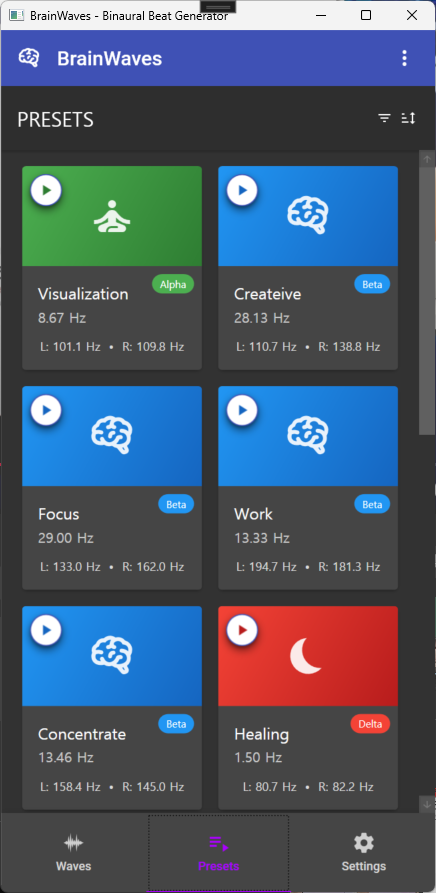
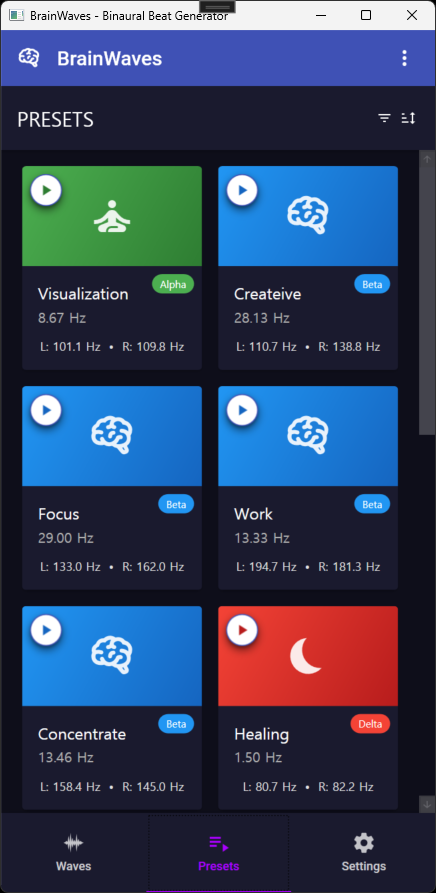
Update README.md

diff --git a/README.md b/README.md
@@ -1,96 +1,169 @@
-# BrainWaves - 바이노럴 비트 생성기
+# 🧠 BrainWaves - 모던 바이노럴 비트 생성기
 
-BrainWaves는 바이노럴 비트(Binaural Beats)를 생성하는 Windows 데스크톱 애플리케이션입니다. 좌우 귀에 약간 다른 주파수의 소리를 들려주어 뇌파를 특정 상태로 유도할 수 있습니다.
+<p align="center">
+  <img src="Images/program_waves.png" width="300" alt="BrainWaves 메인 화면"/>
+</p>
 
-## 주요 기능
+<p align="center">
+  <b>과학적으로 설계된 바이노럴 비트로 당신의 정신 상태를 변화시키세요</b>
+</p>
 
-### 🎵 바이노럴 비트 생성
-- 좌우 독립적인 주파수 설정 (0.01Hz 단위로 정밀 조절)
-- 실시간 WAV 오디오 생성 및 재생
-- 각 채널별 볼륨(게인) 조절
+<p align="center">
+  <a href="#주요-기능">주요 기능</a> •
+  <a href="#스크린샷">스크린샷</a> •
+  <a href="#설치-방법">설치 방법</a> •
+  <a href="#사용법">사용법</a> •
+  <a href="#프리셋">프리셋</a> •
+  <a href="#기술-스택">기술 스택</a>
+</p>
 
-### 🧠 뇌파 유형별 프리셋
-- **13개의 사전 설정된 프리셋**
-  - 수면 유도 (Delta파: 0.5-3Hz)
-  - 명상 및 이완 (Theta파: 3-8Hz, Alpha파: 8-12Hz)
-  - 집중력 향상 (Beta파: 12-38Hz)
-  - 인지 기능 향상 (Gamma파: 38-42Hz)
+---
 
-### 📊 주요 프리셋 목록
-| 프리셋 | 뇌파 유형 | 주파수 차이 | 용도 |
-|--------|-----------|-------------|------|
-| Deep Sleep | Delta | 1.63Hz | 깊은 수면 |
-| Sleep | Delta | 2Hz | 일반 수면 |
-| Meditation | Theta | 4.5Hz | 명상 |
-| Relax | Theta | 4.56Hz | 휴식 |
-| Creative | Beta | 28.13Hz | 창의성 |
-| Focus | Beta | 29Hz | 집중 |
-| Cognitive tasks | Gamma | 40Hz | 인지 작업 |
+## 🌟 개요
 
-## 시스템 요구사항
+BrainWaves는 다양한 정신 상태를 달성하는 데 도움을 주는 바이노럴 비트를 생성하는 모던한 Windows 데스크톱 애플리케이션입니다. 각 귀에 약간 다른 주파수를 재생하여 뇌파 패턴에 영향을 줄 수 있는 청각적 착각을 만들어냅니다.
 
-- Windows 10 이상
-- .NET 8.0 Runtime
-- 스테레오 헤드폰 또는 이어폰 (바이노럴 비트 효과를 위해 필수)
+## ✨ 주요 기능
 
-## 설치 방법
+### 🎵 **정밀한 주파수 제어**
+- 좌우 채널 독립적인 주파수 조절 (0.01Hz 정밀도)
+- 실시간 스테레오 WAV 오디오 생성
+- 각 채널별 개별 볼륨 조절
+- 아름답고 직관적인 다크 테마 UI
 
-### 옵션 1: 소스 코드에서 빌드
+### 🧘 **13가지 과학적으로 설계된 프리셋**
+- **수면 & 휴식**: 깊은 휴식을 위한 델타파와 세타파
+- **집중 & 생산성**: 향상된 집중력을 위한 베타파
+- **창의성 & 학습**: 창의적 사고를 위한 알파파
+- **최고 성능**: 인지 능력 향상을 위한 감마파
+
+### 🎨 **모던한 Material Design**
+- 네이비 배경(#0E0E1A)의 우아한 다크 테마
+- 쉬운 식별을 위한 파동 유형별 색상 구분
+- 부드러운 애니메이션과 트랜지션
+- 반응형 사용자 친화적 인터페이스
+
+## 📸 스크린샷
+
+<table>
+  <tr>
+    <td align="center">
+      <img src="Images/program_waves.png" width="250"/><br>
+      <b>웨이브 컨트롤</b><br>
+      <sub>수동으로 주파수 미세 조정</sub>
+    </td>
+    <td align="center">
+      <img src="Images/program_presets.png" width="250"/><br>
+      <b>프리셋 라이브러리</b><br>
+      <sub>최적화된 설정에 빠르게 접근</sub>
+    </td>
+    <td align="center">
+      <img src="Images/program_settings.png" width="250"/><br>
+      <b>설정</b><br>
+      <sub>앱 정보 및 구성</sub>
+    </td>
+  </tr>
+</table>
+
+## 🧠 프리셋
+
+| 프리셋 | 파동 유형 | 주파수 (Hz) | 목적 |
+|--------|-----------|----------------|---------|
+| 🌙 **깊은 수면** | 델타 | 1.63 | 가장 깊은 수면 단계 |
+| 😴 **수면** | 델타 | 2.00 | 일반적인 수면 유도 |
+| 🧘 **명상** | 세타 | 4.50 | 깊은 명상 |
+| 🌊 **휴식** | 세타 | 4.56 | 스트레스 해소 |
+| 👁 **시각화** | 알파 | 8.67 | 정신적 이미지화 |
+| 🎯 **집중** | 베타 | 29.00 | 강렬한 집중력 |
+| 🎨 **창의성** | 베타 | 28.13 | 창의적 사고 |
+| 💡 **인지** | 감마 | 40.00 | 최고의 정신 성능 |
+
+## 💻 시스템 요구사항
+
+- **OS**: Windows 10 이상
+- **프레임워크**: .NET 8.0 Runtime
+- **오디오**: 스테레오 헤드폰 또는 이어폰 (바이노럴 효과를 위해 필수)
+- **RAM**: 최소 4GB
+- **저장 공간**: 100MB 여유 공간
+
+## 🚀 설치 방법
+
+### 옵션 1: 릴리스 다운로드
+1. [Releases](https://github.com/Sia819/BrainWavesWPF/releases) 페이지로 이동
+2. 최신 `BrainWaves.zip` 다운로드
+3. 압축 해제 후 `BrainWaves.exe` 실행
+
+### 옵션 2: 소스에서 빌드
 ```bash
 # 저장소 클론
-git clone https://github.com/yourusername/BrainWavesWPF.git
+git clone https://github.com/Sia819/BrainWavesWPF.git
 cd BrainWavesWPF
 
-# 빌드
+# 프로젝트 빌드
 dotnet build
 
-# 실행
+# 애플리케이션 실행
 dotnet run --project BrainWaves/BrainWaves/BrainWaves.csproj
 ```
 
-### 옵션 2: 릴리스 버전 다운로드
-1. [Releases](https://github.com/yourusername/BrainWavesWPF/releases) 페이지에서 최신 버전 다운로드
-2. ZIP 파일 압축 해제
-3. `BrainWaves.exe` 실행
+## 📖 사용법
 
-## 사용 방법
+### 시작하기
+1. **스테레오 헤드폰 착용** - 바이노럴 비트 효과에 필수
+2. **방법 선택**:
+   - **빠른 시작**: Presets 탭에서 프리셋 선택
+   - **사용자 정의**: Waves 탭에서 수동으로 주파수 조정
+3. **Play 버튼**을 눌러 세션 시작
+4. 필요에 따라 게인 슬라이더로 **볼륨 조정**
 
-1. **Waves 탭**: 좌우 주파수를 직접 조절
-   - +/- 버튼으로 0.01Hz 단위 조절
-   - 게인 슬라이더로 볼륨 조절
+### 프로 팁
+- 🎧 최상의 결과를 위해 좋은 품질의 헤드폰 사용
+- ⏱ 일반적으로 15-30분 세션이 가장 효과적
+- 🌙 수면을 위해서는 잠들기 30분 전부터 재생
+- 🎯 집중을 위해서는 작업이나 공부 중에 사용
 
-2. **Presets 탭**: 목적에 맞는 프리셋 선택
-   - 원하는 프리셋 클릭
-   - 자동으로 최적 주파수 설정
+## ⚠ 안전 주의사항
 
-3. **재생**: Play 버튼을 눌러 바이노럴 비트 시작
+- **운전 중 사용 금지** 또는 기계 조작 시
+- **간질이나 발작 장애가 있는 경우 사용 금지**
+- 불편함을 느끼면 **사용 중단**
+- **의료 기기가 아님** - 의학적 상태에 대해서는 의료 전문가와 상담
 
-## 주의사항
+## 🛠 기술 스택
 
-- 바이노럴 비트는 헤드폰이나 이어폰을 통해서만 효과가 있습니다
-- 간질 또는 발작 장애가 있는 경우 사용을 피하세요
-- 운전이나 기계 조작 중에는 사용하지 마세요
-- 불편함을 느끼면 즉시 사용을 중단하세요
-
-## 기술 스택
-
-- **프레임워크**: WPF (.NET 8.0)
+- **프레임워크**: WPF with .NET 8.0
 - **아키텍처**: MVVM 패턴
-- **주요 라이브러리**:
-  - CommunityToolkit.Mvvm (8.4.0)
+- **UI 라이브러리**: MaterialDesignThemes (5.2.2)
+- **MVVM 프레임워크**: CommunityToolkit.Mvvm (8.4.0)
+- **오디오**: 커스텀 WAV 생성을 통한 System.Media.SoundPlayer
 
-## 라이선스
+## 🤝 기여하기
 
-이 프로젝트는 [MIT 라이선스](LICENSE)를 따릅니다.
+기여를 환영합니다! Pull Request를 자유롭게 제출해 주세요.
 
-## 기여 방법
+1. 저장소 포크
+2. 기능 브랜치 생성 (`git checkout -b feature/AmazingFeature`)
+3. 변경사항 커밋 (`git commit -m 'Add some AmazingFeature'`)
+4. 브랜치에 푸시 (`git push origin feature/AmazingFeature`)
+5. Pull Request 열기
 
-1. Fork the Project
-2. Create your Feature Branch (`git checkout -b feature/AmazingFeature`)
-3. Commit your Changes (`git commit -m 'Add some AmazingFeature'`)
-4. Push to the Branch (`git push origin feature/AmazingFeature`)
-5. Open a Pull Request
+## 📜 라이선스
 
-## 연락처
+이 프로젝트는 GNU Affero General Public License v3.0을 따릅니다 - 자세한 내용은 [LICENSE](LICENSE) 파일을 참조하세요.
 
-프로젝트 관련 문의사항이 있으시면 이슈를 생성해 주세요.
+## 🙏 감사의 말
+
+- Google의 Material Design Icons
+- 다양한 과학 출판물의 바이노럴 비트 주파수 연구
+- 놀라운 라이브러리를 제공한 오픈소스 커뮤니티
+
+---
+
+<p align="center">
+  <a href="https://github.com/Sia819">Sia819</a>가 ❤를 담아 만들었습니다
+</p>
+
+<p align="center">
+  <a href="https://github.com/Sia819/BrainWavesWPF/issues">버그 신고</a> •
+  <a href="https://github.com/Sia819/BrainWavesWPF/issues">기능 요청</a>
+</p>

diff --git a/CLAUDE.md b/CLAUDE.md
@@ -6,6 +6,13 @@
 
 BrainWaves는 바이노럴 비트를 생성하는 WPF 데스크톱 애플리케이션입니다. 양쪽 귀에 약간 다른 주파수의 오디오를 재생하여 뇌파 패턴에 영향을 줄 수 있는 비트를 생성합니다. .NET 8.0으로 빌드되었으며 MVVM 아키텍처를 따릅니다.
 
+### 주요 특징
+- Material Design 기반의 현대적인 UI
+- 짙은 남색(#0E0E1A) 배경의 다크 테마
+- 13가지 사전 설정된 뇌파 상태 (집중, 수면, 명상 등)
+- 실시간 주파수 조절 및 볼륨 컨트롤
+- 파동 타입별 색상 구분 (Gamma, Beta, Alpha, Theta, Delta)
+
 ## 개발 명령어
 
 ```bash
@@ -32,23 +39,61 @@ dotnet publish -c Release
 ### Model (`/Model/`)
 - `PresetData.cs` - 좌/우 주파수, 공명 계산, 파형 유형 분류(감마, 베타, 알파, 세타, 델타)를 포함한 뇌파 프리셋 정의
 
+### Services (`/Services/`)
+- `AudioService.cs` - 싱글톤 패턴으로 구현된 중앙 집중식 오디오 재생 관리자. 동시 재생 방지 및 디바운싱 로직 포함
+
 ### View (`/View/`)
-- `MainWindow.xaml` - 하단 네비게이션 바가 있는 프레임 기반 네비게이션 컨테이너
-- `Waves.xaml` - 수동 주파수 제어 페이지
-- `Presets.xaml` - 사전 구성된 주파수 조합
-- `Settings.xaml` - 애플리케이션 정보 및 종속성
+- `MainWindow.xaml` - 하단 네비게이션 바가 있는 프레임 기반 네비게이션 컨테이너 (900x450 크기)
+- `Waves.xaml` - 수동 주파수 제어 페이지 (남색 그라데이션 헤더, 보라색 주파수 표시)
+- `Presets.xaml` - 사전 구성된 주파수 조합 (각 파동 타입별 고유 색상)
+- `Settings.xaml` - 애플리케이션 정보, 오픈소스 라이브러리, GitHub 링크
 
 ### ViewModel (`/ViewModel/`)
 - `MainViewModel.cs` - 네비게이션 처리 및 프리셋 컬렉션 관리 (집중, 수면, 명상 등 13개의 사전 구성 상태)
+- `WavesViewModel.cs` - 주파수 조절, 재생/정지, 볼륨 컨트롤 관리. WeakReferenceMessenger를 통한 프리셋 선택 수신
+- `PresetsViewModel.cs` - 프리셋 목록 관리 및 선택 시 재생 토글 기능. PresetDataViewModel로 UI 상태 확장
+
+### Converters (`/Converters/`)
+- `BoolToPlayStopTextConverter.cs` - 재생 상태에 따른 텍스트 변환
 
 ### 핵심 기능
 - `PlaySound.cs` - System.Media.SoundPlayer를 사용하여 각 채널에 다른 사인파 주파수를 가진 스테레오 WAV 오디오 생성
 
 ## 주요 종속성
 
-- **CommunityToolkit.Mvvm** - MVVM을 위한 ICommand 구현 제공
-- **PropertyChanged.Fody** - IL 위빙을 통해 INotifyPropertyChanged 자동 구현
+- **CommunityToolkit.Mvvm (8.4.0)** - 소스 생성기 기반 MVVM 프레임워크, ObservableObject, RelayCommand, Messaging 제공
+- **MaterialDesignThemes (5.2.2-ci998)** - Material Design 컴포넌트 및 스타일
+- **MaterialDesignColors (5.2.2-ci998)** - Material Design 색상 팔레트
 
 ## 네비게이션 아키텍처
 
 앱은 MainViewModel이 제어하는 프레임 기반 네비게이션을 사용합니다. 네비게이션 명령은 메인 윈도우의 네비게이션 바를 유지하면서 세 페이지 간을 전환합니다. 각 페이지는 중앙 프레임 요소에 로드됩니다.
+
+## UI/UX 디자인 가이드라인
+
+### 색상 팔레트
+- **배경**: #0E0E1A (짙은 남색)
+- **카드 배경**: #1A1A2E (어두운 남색)
+- **주요 강조색**: #6C63FF (보라색)
+- **텍스트**: 
+  - 제목: #FFFFFF (흰색)
+  - 본문: #E0E0E0 (밝은 회색)
+  - 보조: #B0B0B0 (중간 회색)
+
+### 컴포넌트 스타일
+- **카드**: 20px 둥근 모서리, 내부 패딩 16-20px
+- **버튼**: 투명 배경에 보라색 테두리 또는 보라색 채움
+- **슬라이더**: 보라색 트랙
+- **아이콘**: Material Design 아이콘 사용
+
+## 메시징 패턴
+
+앱은 CommunityToolkit.Mvvm의 WeakReferenceMessenger를 사용하여 컴포넌트 간 통신:
+
+- `PresetSelectedMessage`: 프리셋 선택 시 주파수 데이터 전달
+- `PlaybackStateChangedMessage`: 재생 상태 변경 알림
+- `AudioParametersChangedMessage`: 주파수/볼륨 변경 알림
+
+## GitHub 리포지토리
+
+https://github.com/Sia819/BrainWavesWPF
